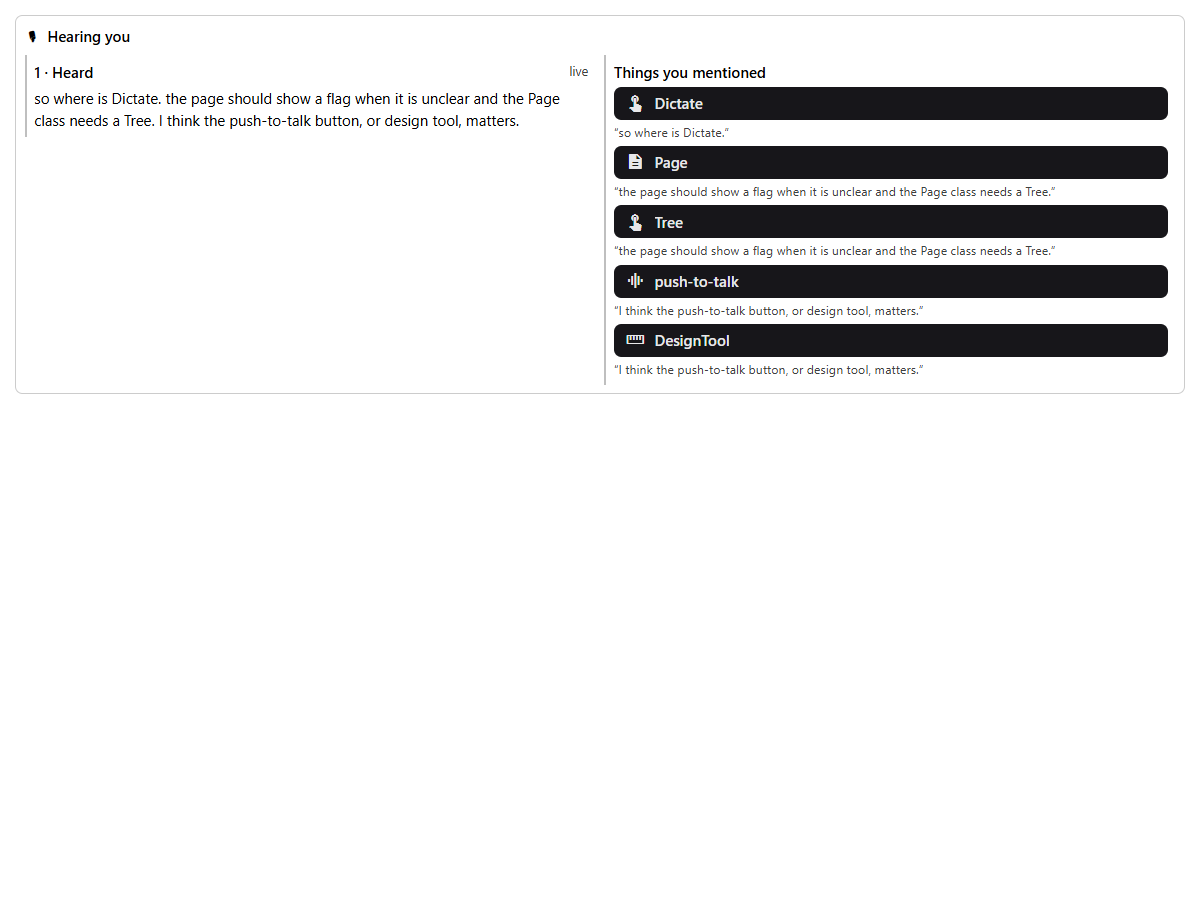
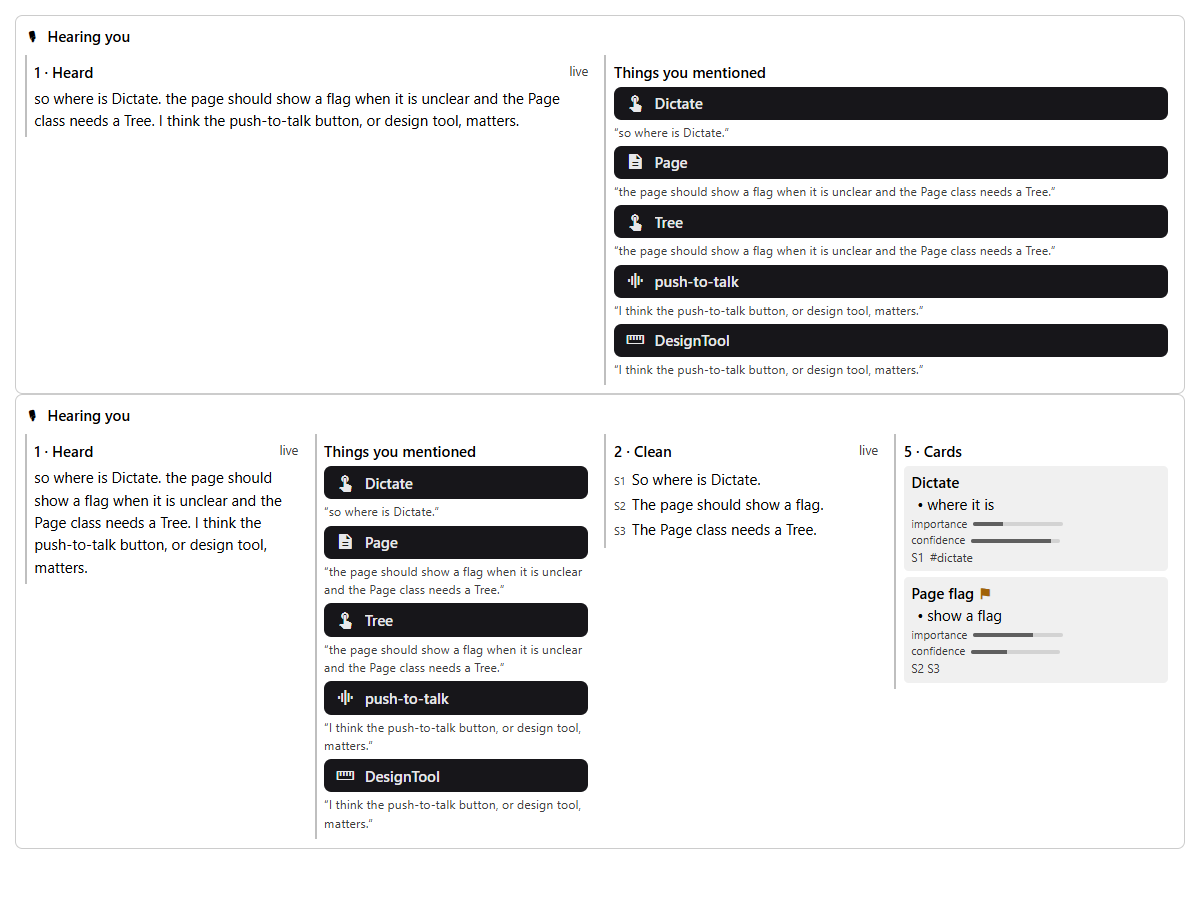
Refine: cards show importance (share of the prompt) and confidence bars, computed in the browser

diff --git a/public/framework/ext/Refine/stages/CardsStage.js b/public/framework/ext/Refine/stages/CardsStage.js
@@ -6,13 +6,23 @@ export default class CardsStage extends VoiceStage {
 	static key = "cards";
 	static label = "5 · Cards";
 	static fields = ["cards"];
+
+	/** How much of what you said this card covers (0-1): the share of the prompt's sentences it cites. Computed, never guessed. */
+	weight(card){ const n = this.data.clean?.length || 0; return n ? Math.min(1, (card.cites?.length ?? 0) / n) : null; }
 }
 
 CardsStage.View = class CardsStageView extends VoiceStage.View {
+	/** Two thin bars: how much of the prompt this card is (importance) and how clear it was (confidence, once the Haiku pass lands). */
+	meters(card){
+		const w = this.stage.weight(card), bar = (label, v) => v == null ? null : div.c("voice-meter", () => { span.c("muted", label); div.c("voice-bar", $b => $b.el.style.setProperty("--v", Math.round(v * 100) + "%")).attr("title", Math.round(v * 100) + "%"); });
+		bar("importance", w); bar("confidence", card.clarity);
+	}
+
 	body(){
 		div.c("voice-cards", () => this.stage.data.cards.forEach(c => div.c("voice-card", () => {
 			div.c("voice-card-t", () => { span(c.title); if (c.clarity != null && c.clarity < 0.6) span.c("voice-flag", "⚑").attr("title", "Some of this was unclear when spoken"); });
 			c.items?.forEach(t => div.c("voice-card-i", "• " + t));
+			this.meters(c);
 			div.c("voice-card-f muted", () => { span((c.cites ?? []).map(n => "S" + n).join(" ")); (c.tags ?? []).forEach(t => span.c("voice-tag", "#" + t)); });
 		})));
 	}

diff --git a/public/framework/ext/Refine/stages/VoiceStage.css b/public/framework/ext/Refine/stages/VoiceStage.css
@@ -22,6 +22,9 @@
 	.voice-cards { display: grid; gap: .4em; }
 	.voice-card { padding: .3em .5em; border-radius: .3em; background: color-mix(in srgb, currentColor 6%, transparent); }
 	.voice-card-i { padding-inline-start: .4em; }
+	.voice-meter { display: flex; align-items: center; gap: .5em; font-size: .75em; }
+	.voice-bar { flex: 0 1 8em; height: .35em; border-radius: 1em; background: color-mix(in srgb, currentColor 12%, transparent); position: relative; overflow: hidden; }
+	.voice-bar::after { content: ""; position: absolute; inset: 0 auto 0 0; width: var(--v); background: color-mix(in srgb, currentColor 55%, transparent); }
 	.voice-card-f { display: flex; gap: .5em; flex-wrap: wrap; font-size: .8em; }
 	.voice-flag { color: var(--warn); margin-inline-start: .4em; cursor: help; }
 	.voice-copy { margin-block-start: .4em; }
